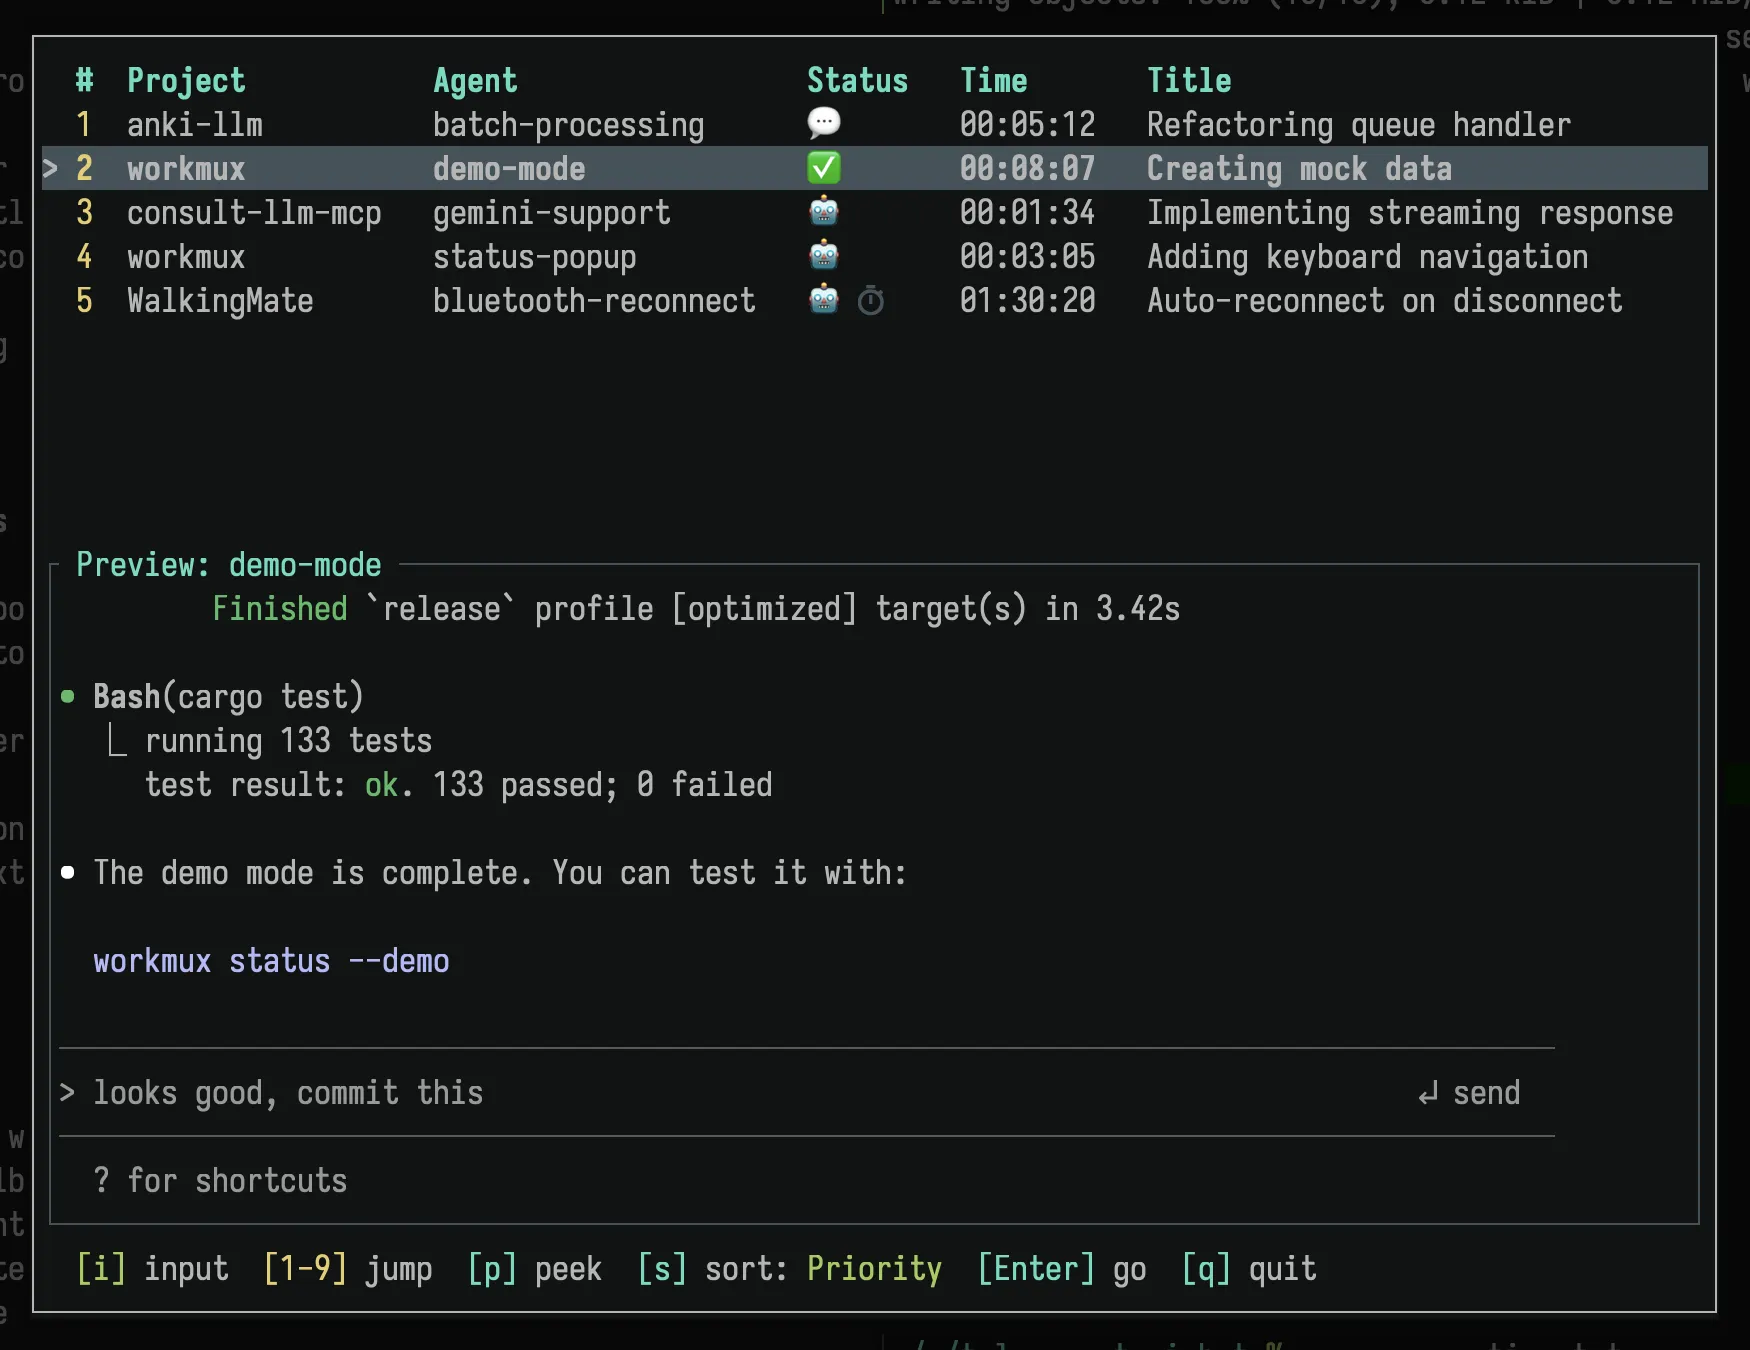
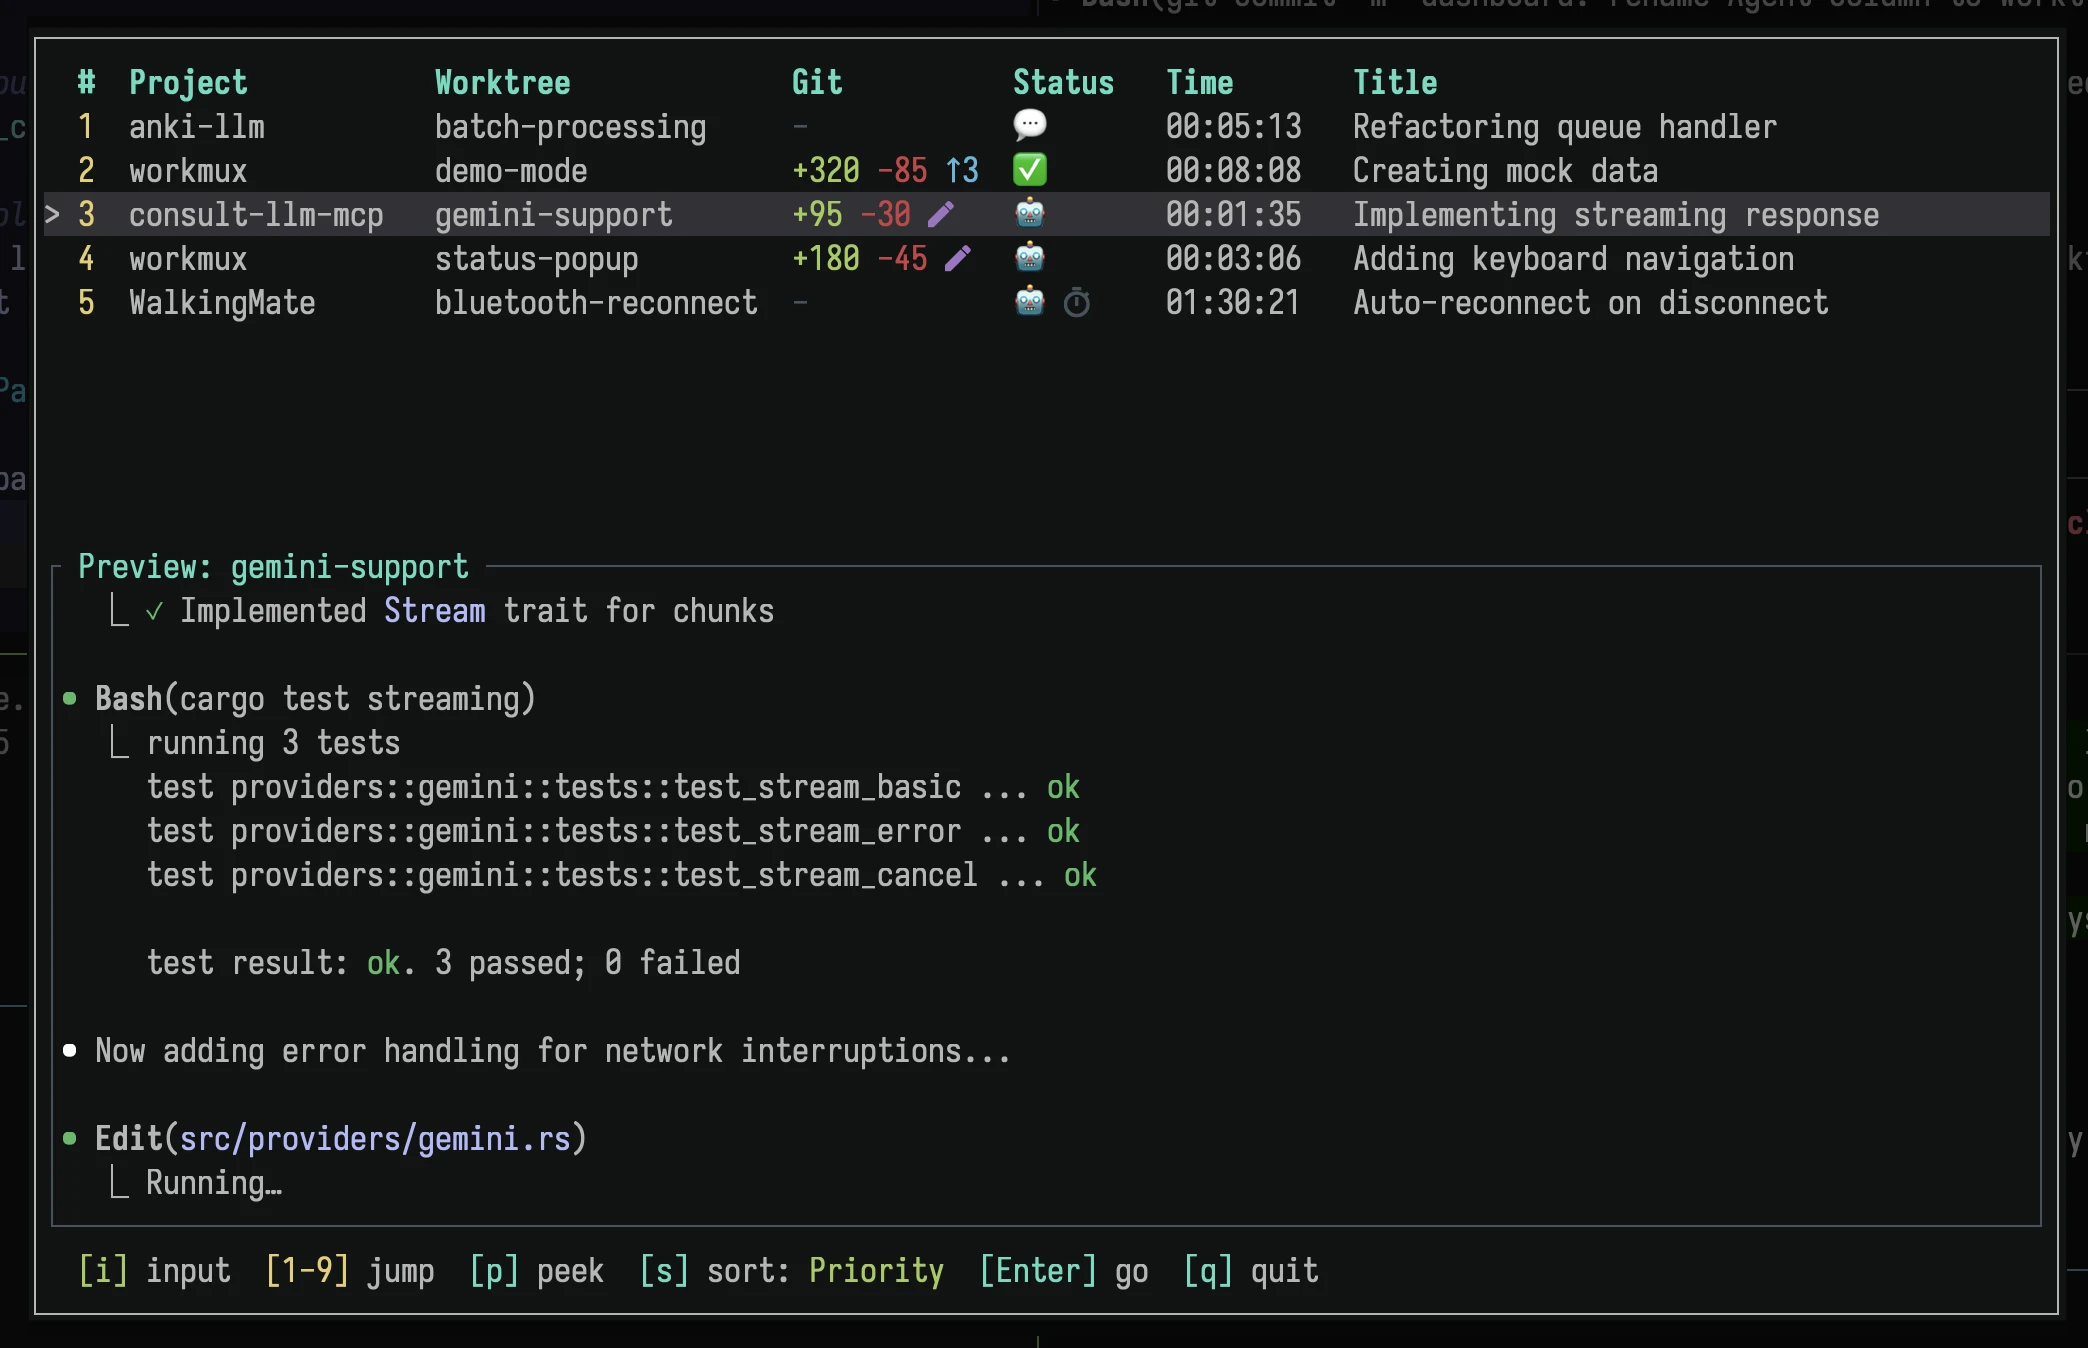
update dashboard documentation and image

diff --git a/docs/index.md b/docs/index.md
@@ -71,7 +71,7 @@ workmux merge
 
 <div class="dashboard-section">
   <h2>Monitor your agents</h2>
-  <p>A tmux popup dashboard to track progress across all parallel agents.</p>
+  <p>A tmux popup dashboard to track progress across all agents.</p>
   <div class="showcase-container">
     <div class="terminal-window">
       <div class="terminal-header">
